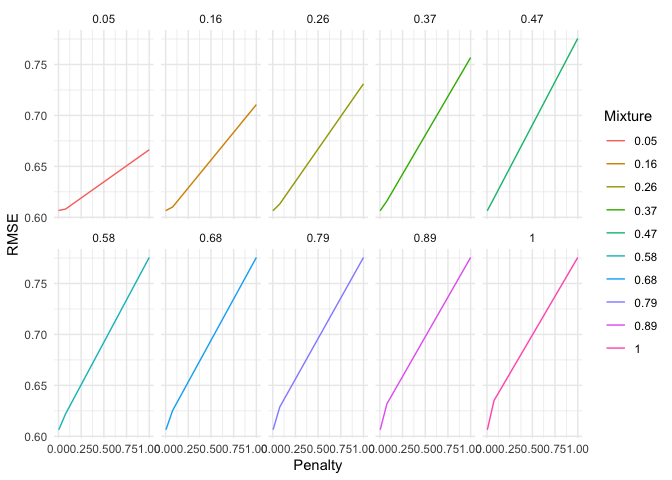
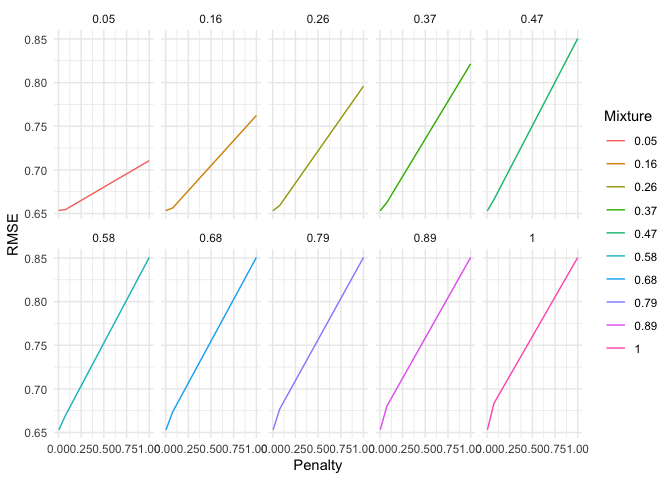
Elastic net updated

diff --git a/scripts/04-elastic-net.md b/scripts/04-elastic-net.md
@@ -1,7 +1,7 @@
-Validation and Hyperparameter Tuning
+Elastic Net: Implementation and Tuning
 ================
 Will Doyle
-2025-01-09
+2026-01-20
 
 ## Elastic Net
 
@@ -9,6 +9,9 @@ The elastic net model combines the lasso and the ridge using the mixture
 parameter.
 
 ### Elastic Net: Mathematical Formulation
+
+Now that we’ve gone through ridge and lasso you may be wondering which
+to choose. The good news is you don’t have to choose!
 
 Elastic Net combines **L1 regularization** (Lasso) and **L2
 regularization** (Ridge) into a single model. The objective function
@@ -27,16 +30,19 @@ $$
   - $\alpha = 1$: Pure Lasso (L1 penalty only)
   - $0 < \alpha < 1$: Elastic Net (mix of both penalties).
 
+The key here is to use hyperparameter tuning to choose a combination of
+mixture (alpha) and penalty (lambda) to minimize loss.
+
 ``` r
 library(tidyverse)
 ```
 
     ## ── Attaching core tidyverse packages ──────────────────────── tidyverse 2.0.0 ──
     ## ✔ dplyr     1.1.4     ✔ readr     2.1.5
-    ## ✔ forcats   1.0.0     ✔ stringr   1.5.1
-    ## ✔ ggplot2   3.5.1     ✔ tibble    3.2.1
-    ## ✔ lubridate 1.9.3     ✔ tidyr     1.3.1
-    ## ✔ purrr     1.0.2     
+    ## ✔ forcats   1.0.0     ✔ stringr   1.6.0
+    ## ✔ ggplot2   4.0.0     ✔ tibble    3.3.0
+    ## ✔ lubridate 1.9.4     ✔ tidyr     1.3.1
+    ## ✔ purrr     1.1.0     
     ## ── Conflicts ────────────────────────────────────────── tidyverse_conflicts() ──
     ## ✖ dplyr::filter() masks stats::filter()
     ## ✖ dplyr::lag()    masks stats::lag()
@@ -46,13 +52,13 @@ library(tidyverse)
 library(tidymodels)
 ```
 
-    ## ── Attaching packages ────────────────────────────────────── tidymodels 1.2.0 ──
-    ## ✔ broom        1.0.6     ✔ rsample      1.2.1
-    ## ✔ dials        1.3.0     ✔ tune         1.2.1
-    ## ✔ infer        1.0.7     ✔ workflows    1.1.4
-    ## ✔ modeldata    1.4.0     ✔ workflowsets 1.1.0
-    ## ✔ parsnip      1.2.1     ✔ yardstick    1.3.1
-    ## ✔ recipes      1.1.0     
+    ## ── Attaching packages ────────────────────────────────────── tidymodels 1.4.1 ──
+    ## ✔ broom        1.0.10     ✔ rsample      1.3.1 
+    ## ✔ dials        1.4.2      ✔ tailor       0.1.0 
+    ## ✔ infer        1.0.9      ✔ tune         2.0.1 
+    ## ✔ modeldata    1.5.1      ✔ workflows    1.3.0 
+    ## ✔ parsnip      1.3.3      ✔ workflowsets 1.1.1 
+    ## ✔ recipes      1.3.1      ✔ yardstick    1.3.2 
     ## ── Conflicts ───────────────────────────────────────── tidymodels_conflicts() ──
     ## ✖ scales::discard() masks purrr::discard()
     ## ✖ dplyr::filter()   masks stats::filter()
@@ -60,7 +66,6 @@ library(tidymodels)
     ## ✖ dplyr::lag()      masks stats::lag()
     ## ✖ yardstick::spec() masks readr::spec()
     ## ✖ recipes::step()   masks stats::step()
-    ## • Learn how to get started at https://www.tidymodels.org/start/
 
 ``` r
 library(janitor)
@@ -72,6 +77,17 @@ library(janitor)
     ## The following objects are masked from 'package:stats':
     ## 
     ##     chisq.test, fisher.test
+
+``` r
+library(vip)
+```
+
+    ## 
+    ## Attaching package: 'vip'
+    ## 
+    ## The following object is masked from 'package:utils':
+    ## 
+    ##     vi
 
 ## Load dataset
 
@@ -92,7 +108,8 @@ hs<-read_csv("hsls_extract.csv")%>%clean_names()
 
 ``` r
 hs <- hs %>%
-  mutate(across(-x1txmtscor, ~ ifelse(. < 0, NA, .)))%>%
+ mutate(across(where(is.numeric) ,
+                ~ replace(.x, .x %in% -9:-1, NA))) %>%
   drop_na()
 ```
 
@@ -136,7 +153,7 @@ enet_grid<-grid_regular(extract_parameter_set_dials(hs_tune_model) ,levels=10)
 ```
 
 ``` r
-hs_rs<-mc_cv(hs_train,times=25,prop=.75) ## More like 1000 in practice
+hs_rs<-mc_cv(hs_train,times=100,prop=.75) ## More like 1000 in practice
 ```
 
 Set the workflow, as usual.
@@ -151,15 +168,18 @@ Then we can use `tune_grid` to run the model through the resampled data,
 using the grid supplied.
 
 ``` r
+tune_model<-FALSE
+
+if(tune_model){
 hs_enet_tune_fit <- 
   hs_wf %>%
     tune_grid(hs_rs,grid=enet_grid)
+
+save(hs_enet_tune_fit,file="hs-enet-tune-fit.Rdata")
+} else{
+  load("hs-enet-tune-fit.Rdata")
+}
 ```
-
-    ## → A | warning: A correlation computation is required, but `estimate` is constant and has 0
-    ##                standard deviation, resulting in a divide by 0 error. `NA` will be returned.
-
-    ## There were issues with some computations   A: x1There were issues with some computations   A: x2There were issues with some computations   A: x3There were issues with some computations   A: x4There were issues with some computations   A: x5There were issues with some computations   A: x6There were issues with some computations   A: x7There were issues with some computations   A: x8There were issues with some computations   A: x9There were issues with some computations   A: x10There were issues with some computations   A: x11There were issues with some computations   A: x12There were issues with some computations   A: x13There were issues with some computations   A: x14There were issues with some computations   A: x15There were issues with some computations   A: x16There were issues with some computations   A: x17There were issues with some computations   A: x18There were issues with some computations   A: x19There were issues with some computations   A: x20There were issues with some computations   A: x21There were issues with some computations   A: x22There were issues with some computations   A: x23There were issues with some computations   A: x24There were issues with some computations   A: x25There were issues with some computations   A: x25
 
 Let’s take a look at the results to see which combination of penalty and
 mixture seemed to work best.
@@ -169,18 +189,18 @@ hs_enet_tune_fit%>%collect_metrics()%>% filter(.metric=="rmse")%>%arrange(mean)
 ```
 
     ## # A tibble: 100 × 8
-    ##          penalty mixture .metric .estimator  mean     n std_err .config         
-    ##            <dbl>   <dbl> <chr>   <chr>      <dbl> <int>   <dbl> <chr>           
-    ##  1 0.00599         0.156 rmse    standard   0.607    25 0.00184 Preprocessor1_M…
-    ##  2 0.00599         0.05  rmse    standard   0.607    25 0.00183 Preprocessor1_M…
-    ##  3 0.000464        1     rmse    standard   0.607    25 0.00183 Preprocessor1_M…
-    ##  4 0.000464        0.894 rmse    standard   0.607    25 0.00183 Preprocessor1_M…
-    ##  5 0.000464        0.789 rmse    standard   0.607    25 0.00183 Preprocessor1_M…
-    ##  6 0.00599         0.261 rmse    standard   0.607    25 0.00185 Preprocessor1_M…
-    ##  7 0.000464        0.683 rmse    standard   0.607    25 0.00183 Preprocessor1_M…
-    ##  8 0.000464        0.578 rmse    standard   0.607    25 0.00183 Preprocessor1_M…
-    ##  9 0.0000000001    0.472 rmse    standard   0.607    25 0.00183 Preprocessor1_M…
-    ## 10 0.00000000129   0.472 rmse    standard   0.607    25 0.00183 Preprocessor1_M…
+    ##          penalty mixture .metric .estimator  mean     n  std_err .config        
+    ##            <dbl>   <dbl> <chr>   <chr>      <dbl> <int>    <dbl> <chr>          
+    ##  1 0.00599         0.05  rmse    standard   0.654   100 0.000679 pre0_mod071_po…
+    ##  2 0.000464        1     rmse    standard   0.654   100 0.000679 pre0_mod070_po…
+    ##  3 0.000464        0.894 rmse    standard   0.654   100 0.000679 pre0_mod069_po…
+    ##  4 0.000464        0.789 rmse    standard   0.654   100 0.000679 pre0_mod068_po…
+    ##  5 0.00599         0.156 rmse    standard   0.654   100 0.000679 pre0_mod072_po…
+    ##  6 0.00599         0.367 rmse    standard   0.654   100 0.000680 pre0_mod074_po…
+    ##  7 0.000464        0.683 rmse    standard   0.654   100 0.000679 pre0_mod067_po…
+    ##  8 0.000464        0.578 rmse    standard   0.654   100 0.000679 pre0_mod066_po…
+    ##  9 0.0000000001    0.05  rmse    standard   0.654   100 0.000679 pre0_mod001_po…
+    ## 10 0.00000000129   0.05  rmse    standard   0.654   100 0.000679 pre0_mod011_po…
     ## # ℹ 90 more rows
 
 We can also plot the results.
@@ -207,11 +227,8 @@ the best parameters. The `select_best` will pull the values from the
 tuning process with best mean rmse.
 
 ``` r
-best_params<-select_best(hs_enet_tune_fit)
+best_params<-select_best(hs_enet_tune_fit,metric="rmse")
 ```
-
-    ## Warning in select_best(hs_enet_tune_fit): No value of `metric` was given;
-    ## "rmse" will be used.
 
 ## Finalizing the workflow
 
@@ -238,32 +255,58 @@ Below we can take a look at the coefficient estimates from the model
 fitted on the full training dataset.
 
 ``` r
-final_model%>%extract_fit_parsnip()%>%tidy()%>%arrange(-estimate)
+final_model%>%
+  extract_fit_parsnip()%>%
+  tidy()%>%
+  filter(term != "(Intercept)") %>%
+  arrange(-abs(estimate))
 ```
 
-    ## # A tibble: 51 × 3
-    ##    term                            estimate penalty
-    ##    <chr>                              <dbl>   <dbl>
-    ##  1 (Intercept)                       2.94   0.00599
-    ##  2 x1txmtscor                        0.340  0.00599
-    ##  3 x1schooleng                       0.118  0.00599
-    ##  4 x1locale_Rural                    0.0566 0.00599
-    ##  5 x1hhnumber_X4.Household.members   0.0475 0.00599
-    ##  6 x1par1edu_Bachelor.s.degree       0.0373 0.00599
-    ##  7 x1locale_Town                     0.0322 0.00599
-    ##  8 x1hhnumber_X6.Household.members   0.0295 0.00599
-    ##  9 x1hhnumber_X5.Household.members   0.0289 0.00599
-    ## 10 x1par1edu_Master.s.degree         0.0271 0.00599
-    ## # ℹ 41 more rows
+    ## 
+    ## Attaching package: 'Matrix'
+
+    ## The following objects are masked from 'package:tidyr':
+    ## 
+    ##     expand, pack, unpack
+
+    ## Loaded glmnet 4.1-10
+
+    ## # A tibble: 49 × 3
+    ##    term                                                    estimate penalty
+    ##    <chr>                                                      <dbl>   <dbl>
+    ##  1 x1txmtscor                                                0.333  0.00599
+    ##  2 x1schooleng                                               0.171  0.00599
+    ##  3 x1stuedexpct_High.school.diploma.or.GED                  -0.0875 0.00599
+    ##  4 x1famincome_Family.income.less.than.or.equal.to..15.000  -0.0782 0.00599
+    ##  5 x1control_Public                                         -0.0745 0.00599
+    ##  6 x1famincome_Family.income....15.000.and.....35.000       -0.0639 0.00599
+    ##  7 x1locale_Rural                                            0.0635 0.00599
+    ##  8 x1hhnumber_X4.Household.members                           0.0590 0.00599
+    ##  9 x1locale_Town                                             0.0456 0.00599
+    ## 10 x1hhnumber_X5.Household.members                           0.0417 0.00599
+    ## # ℹ 39 more rows
+
+We can also use `vip` to plot variable importance.
+
+``` r
+final_model%>%
+  extract_fit_parsnip()%>%
+  vip()
+```
+
+![](04-elastic-net_files/figure-gfm/unnamed-chunk-17-1.png)<!-- -->
+
+Remember as always that these aren’t regression coefficients in the way
+we’ve grown used to thinking about them. They’re the combination of
+betas from the above algorithm that provides the most accurate model fit
+in our training data.
 
 ## Check against testing data
 
 We’re now ready for the final check against the testing data.
 
 ``` r
-predictions <- final_model %>%
-  predict(new_data = hs_test) %>% 
-  bind_cols(hs_test) 
+predictions <- augment(final_model,new_data=hs_test)
 ```
 
 ``` r
@@ -274,9 +317,9 @@ metrics(truth = x3tgpatot, estimate = .pred)
     ## # A tibble: 3 × 3
     ##   .metric .estimator .estimate
     ##   <chr>   <chr>          <dbl>
-    ## 1 rmse    standard       0.607
-    ## 2 rsq     standard       0.407
-    ## 3 mae     standard       0.475
+    ## 1 rmse    standard       0.647
+    ## 2 rsq     standard       0.420
+    ## 3 mae     standard       0.511
 
 ## Last thoughts
 
@@ -285,6 +328,6 @@ to use elastic net and just sort out the appropriate balance of the two
 by tuning the mixture.
 
 Make sure you’re clear on the difference between the structural
-parameter estimates we’re used to thinking about in psychometrics of
+parameter estimates we’re used to thinking about in psychometrics or
 econometrics and the variable importance we’re using here. It comes down
 to predictive thinking versus measurement/evaluation thinking.
